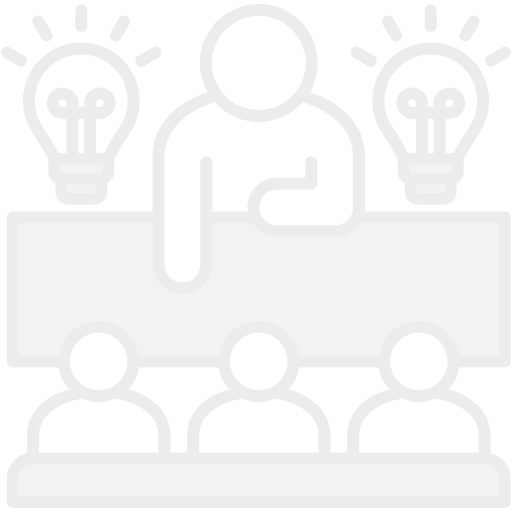
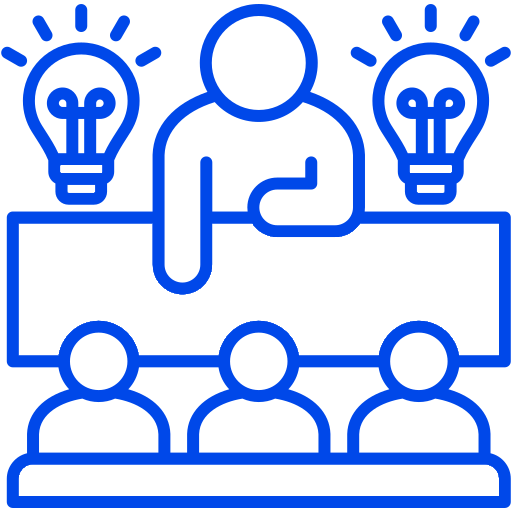
Refactor code structure for improved readability and maintainability

Changed region(s): [[0.0, 0.0, 1.0, 1.0]]

diff --git a/about.html b/about.html
@@ -132,14 +132,14 @@
 
             <!-- Card 1 -->
             <div class="team_card">
-                <img src="assets/img/coach.png" alt="Ishara Banadara">
+                <img src="assets/img/ishara.png" alt="Ishara Banadara">
                 <h3 class="member-name">Ishara Banadara</h3>
                 <p class="member-role">Founder</p>
             </div>
 
             <!-- Card 2 -->
             <div class="team_card">
-                <img src="assets/img/coach.png" alt="Gawesh Dinujaya">
+                <img src="assets/img/gawesh.png" alt="Gawesh Dinujaya">
                 <h3 class="member-name">Gawesh Dinujaya</h3>
                 <p class="member-role">Creative Director</p>
             </div>
@@ -153,14 +153,14 @@
 
             <!-- Card 4 -->
             <div class="team_card">
-                <img src="assets/img/coach.png" alt="Dinesh Lakmal">
+                <img src="assets/img/dinesh.png" alt="Dinesh Lakmal">
                 <h3 class="member-name">Dinesh Lakmal</h3>
                 <p class="member-role">Web Developer</p>
             </div>
 
             <!-- Card 5 -->
             <div class="team_card">
-                <img src="assets/img/coach.png" alt="Piumika Hansani">
+                <img src="assets/img/piumika.png" alt="Piumika Hansani">
                 <h3 class="member-name">Piumika Hansani</h3>
                 <p class="member-role">Question Analyst</p>
             </div>

diff --git a/index.html b/index.html
@@ -67,7 +67,7 @@
             <div class="pricing-card">
                 <div class="avatar-section">
                     <div class="circle">
-                        <img class="circle_img" src="assets/img/coach-icon.png" alt="Coach Icon">
+                        <img class="circle_img" src="assets/img/coach-icon-w.png" alt="Coach Icon">
                     </div>
                     <div class="pricing-badge">Coach</div>
                 </div>
@@ -86,7 +86,7 @@
             <div class="pricing-card featured">
                 <div class="avatar-section">
                     <div class="circle">
-                        <img class="circle_img" src="assets/img/learn-icon.png" alt="Learn Icon">
+                        <img class="circle_img" src="assets/img/learn-icon-w.png" alt="Learn Icon">
                     </div>
                     <div class="pricing-badge">Learn</div>
                 </div>

diff --git a/assets/css/style.css b/assets/css/style.css
@@ -367,7 +367,7 @@ button:active {
 .pricing-card .circle {
     width: 160px;
     height: 160px;
-    background-color: #000000;
+    background-color: #ffffff;
     border-radius: 50%;
 }
 
